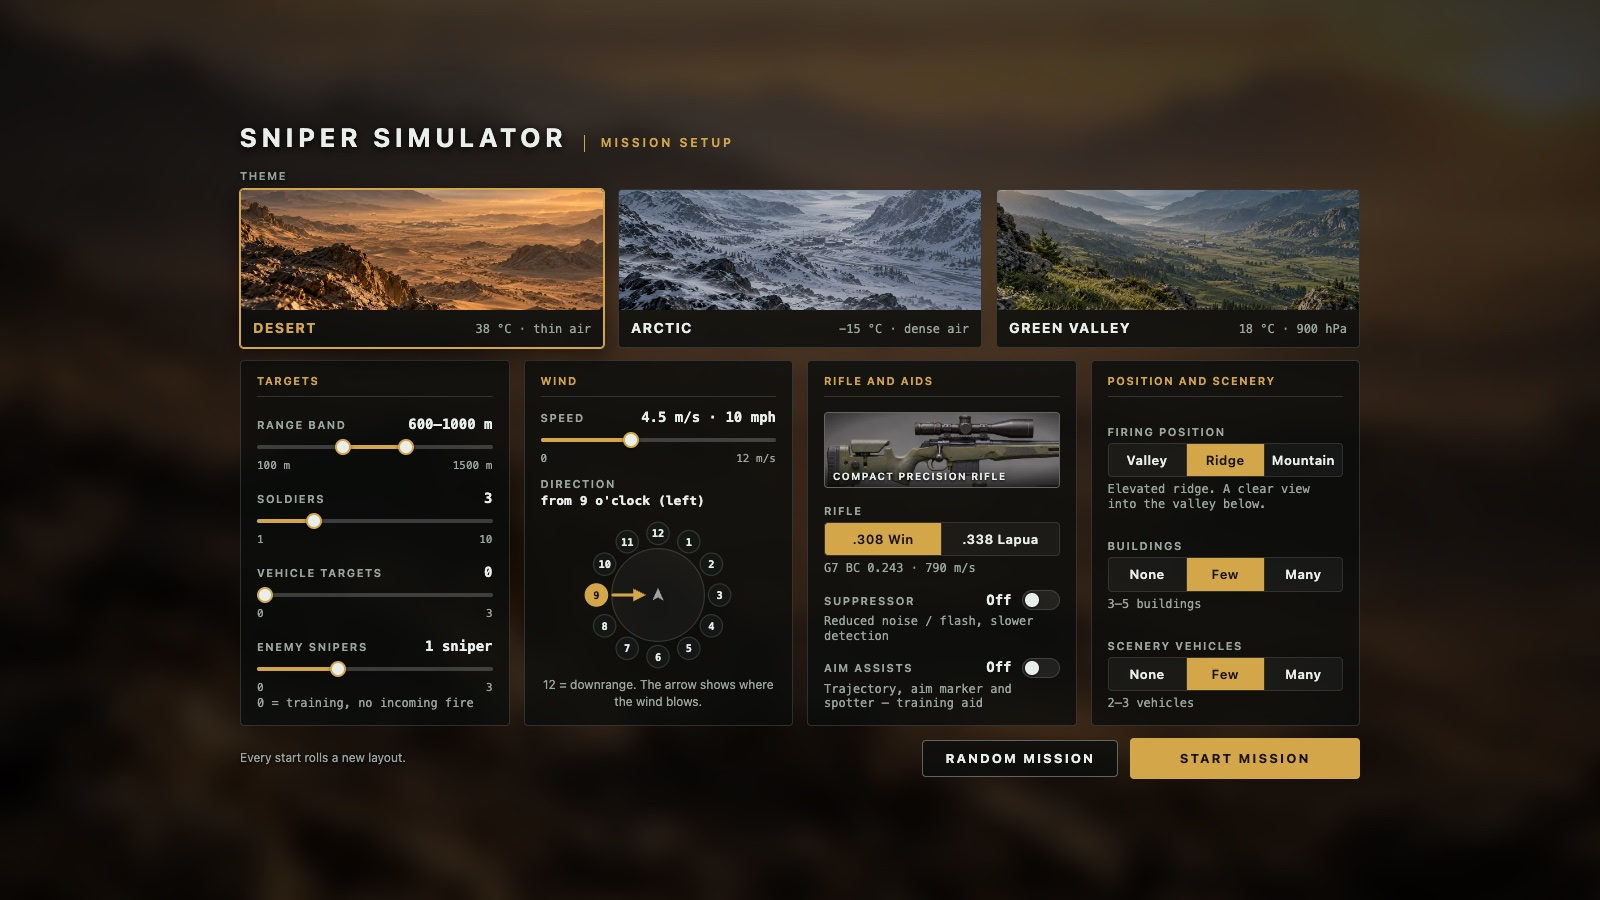
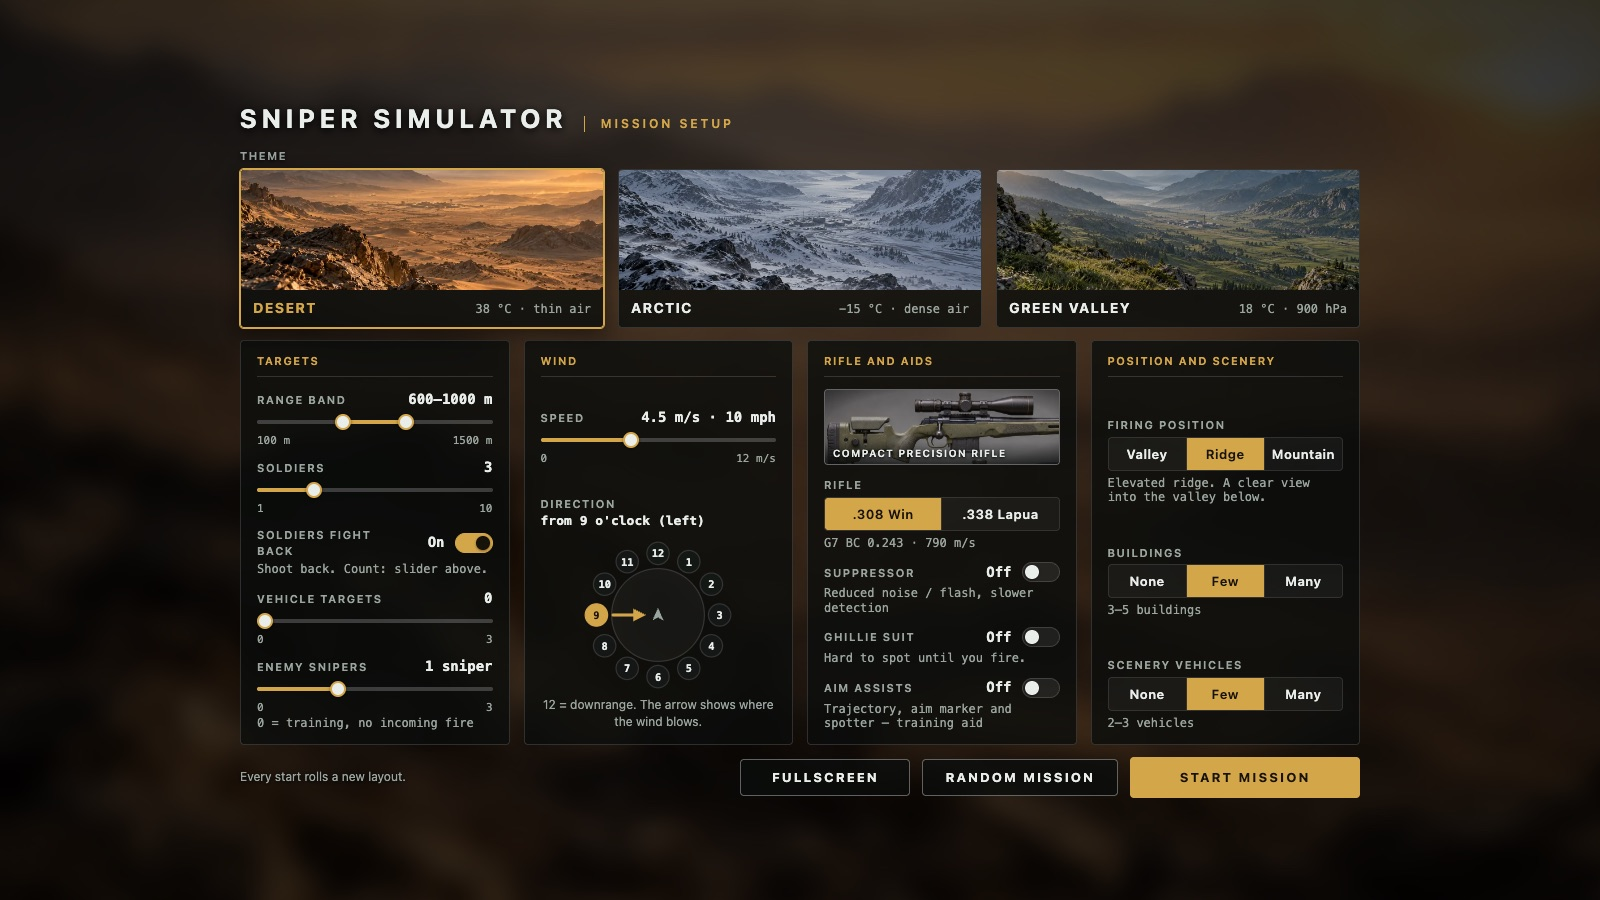
docs: README shows the squad fighting back, the hit sequence and the new enemies
New in-game screenshots: a soldier through the 25x scope, the squad sprinting
for cover and firing from it (muzzle flash through the scope), incoming fire
and a mortar warning, a chest hit from entry to the fall, and the ghillie suit.

diff --git a/README.md b/README.md
@@ -2,15 +2,43 @@
 
 **A long-range sniper simulator that runs in the browser. Every shot is a real ballistic solution.**
 
-Read the wind, hold over for drop and make the shot at 300 to 1,500 m. Every bullet is flown through a G7 drag model and the air of the map you're on. It is not a hitscan ray. Enemy snipers are hunting you too, so stay in cover and keep your shots few.
+Read the wind, hold over for drop and make the shot at 300 to 1,500 m. Every bullet is flown through a G7 drag model and the air of the map you're on. It is not a hitscan ray. And the other side shoots back: a squad that runs for cover, returns fire and calls in mortars, and enemy snipers who spot you for them.
 
 ![Desert ridge, first-person view](docs/screenshots/desert-open.jpg)
 
-| Through the scope | Training aids |
+| Through the 25x scope | Training aids |
 |---|---|
-| ![20x scope on a compound at 690 m](docs/screenshots/desert-scope.jpg) | ![Trajectory arc, aim marker and spotter call](docs/screenshots/assists-aim.jpg) |
+| ![A soldier at 140 m through the scope](docs/screenshots/soldier-scope.jpg) | ![Trajectory arc, aim marker and spotter call](docs/screenshots/assists-aim.jpg) |
 | **Green valley**, mountain position | **Arctic**, suppressed .338 |
 | ![Green valley](docs/screenshots/valley-open.jpg) | ![Arctic](docs/screenshots/arctic-open.jpg) |
+
+## Soldiers that fight back
+
+Fire your first shot and the squad comes alive. They crouch, turn toward the sound and sprint for cover:
+
+![A soldier sprinting for cover, rifle at port arms](docs/screenshots/squad-sprint.jpg)
+
+From behind walls and vehicles they rise, shoulder their rifles, fire a burst and drop back down:
+
+![Kneeling behind a wall to fire, then dropping back into cover](docs/screenshots/squad-cover.jpg)
+
+Through your scope you see the muzzle flash of the man who is shooting at you:
+
+![Return fire through the scope: rise, muzzle flash, drop](docs/screenshots/squad-return-fire.jpg)
+
+- **They have to find you first.** Each of your shots tells them a little more (less with a suppressor or a ghillie suit), and so does every bullet that cracks past one of them and every man that goes down. At first their bursts land far away; once they have you, they land close and hurt while you are exposed.
+- **An enemy sniper who has you in his scope calls your position to them.** Take him out first.
+- **They move.** After a near miss, when a friend close by goes down, or just after a while in one spot, they sprint to new cover, so you have to hunt them.
+- **Mortars.** Once they have you well enough they call them in: you get a four-second warning to get into cover (**C**).
+- Switch it off in the menu for a classic static range; the **Soldiers** slider sets how many there are (1 to 10).
+
+![The squad has found you: incoming rounds kick up dust, and a mortar is on its way](docs/screenshots/firefight.jpg)
+
+## Hits that look like hits
+
+Bodies are not planks that tip over. A hit soldier goes limp: a Verlet ragdoll on his skeleton, pushed by the bullet, folds at the knees and waist and settles on the real terrain. Where you hit him decides how he falls (a head shot drops him on the spot, a chest shot staggers him back, a leg shot drops him onto that side), and a man hit at a sprint tumbles forward. The bullet goes through: a puff at the entry, a mist out of the far side, and the round flies on, slower, to kick up dust behind him.
+
+![A chest hit at 140 m: entry and exit, the bullet passes through, the legs give way, down](docs/screenshots/hit-sequence.jpg)
 
 ## Features
 
@@ -23,23 +51,21 @@ Read the wind, hold over for drop and make the shot at 300 to 1,500 m. Every bul
   - .308 Win: G7 BC 0.243 at 790 m/s.
   - .338 Lapua: G7 BC 0.322 at 900 m/s.
   - Each has an optional suppressor: no muzzle flash, a quieter report and slower detection.
+- **5-25x scope** with a mil reticle, mouse-wheel zoom and a moving bolt. The picture is sharpened while you look through it, so a man at 600 m stays a man and not a smudge.
+  - Sound travels at the speed of sound: at long range you hear the impact well after the shot.
+- **Realistic enemies**: soldiers in camo with helmets, plate carriers, packs and rifles held in both hands; snipers prone in ghillie suits behind scoped rifles on bipods. Procedural models and textures, one draw call each.
 - **Optional ghillie suit** (a switch in the menu)
   - While you hold fire the enemy cannot pick you out: lying still in plain view never builds more than 30 % detection.
   - Your sleeves wear the map's camouflage.
   - Your shots still give you away, though the muzzle report counts for less.
-- **Variable-power scope** with a mil reticle, mouse-wheel zoom and a moving bolt.
-  - Sound travels at the speed of sound: at long range you hear the impact well after the shot.
+
+  ![Ghillie suit in the green valley: the enemy is still unaware](docs/screenshots/ghillie.jpg)
 - **Enemy counter-snipers**
   - They start out unaware of you. Without a ghillie suit, a few seconds in the open is enough to make them search.
   - A shot gives you away twice: by the muzzle report, and by the crack and dust of the bullet, which point back at you when it ends near one of them. A suppressor only quiets the first.
   - Once they are searching their scopes narrow in on you and glint more often. Keep exposed and they find you, shoot back and call in bombardments.
   - They hide with some thought: every mission each one picks, from the spots that give him a clear shot at you, one that is well concealed (a backdrop behind him, hard cover close by, away from the soldiers, on a flank, sometimes a rooftop), so the hides change with the seed.
   - Press **C** to duck into cover.
-- **Soldiers that fight back** (a switch in the menu, on by default; the **Soldiers** slider sets how many)
-  - They stand about, unaware, until you fire. Then they crouch, turn toward the shot and sprint to cover, and from cover they peek out, shoulder their rifles and fire bursts, with a muzzle flash and a report that reaches you after the sound's trip.
-  - They only know where you are a little more with each shot (a suppressor or a ghillie suit tells them less), with each bullet that passes one of them and with each soldier that goes down; an enemy sniper who has you in his scope tells them too. At first their bursts land far from you; once they have you, close, and they can hurt you while you are exposed. Ducking with **C** lets what they know fade.
-  - They change position now and then, and at once after a near miss or when a friend close by goes down, so you have to hunt them. Once they have you well enough they call mortars (the same warning and blast as a sniper's bombardment).
-  - They run, crouch, kneel and shoot with a procedural animation on the soldier's skeleton, their hit spheres follow the body, and a soldier you hit falls from the pose he was in, still carrying his run.
 - **Mission setup menu**
   - Three themes: desert, arctic and green valley.
   - A range band from 100 to 1,500 m.
@@ -54,6 +80,7 @@ Read the wind, hold over for drop and make the shot at 300 to 1,500 m. Every bul
   - Baked sun and ambient occlusion, plus instanced vegetation.
   - Bloom and colour grading.
   - Real recorded sounds.
+- **Fullscreen** with **F** or the button on the menu and in the game.
 - **Runs on modest GPUs**
   - Quality levels and dynamic resolution.
   - About 120 draw calls in the busiest mission.
@@ -118,7 +145,7 @@ npm run smoke    # build, then drive the game in headless Chrome and check it en
 | `src/player/` | First-person view, input, scope reticle and the procedural rifle model. |
 | `src/audio/` | Web Audio engine, recorded clips and sound-delay maths. |
 | `src/ui/` | Mission menu, HUD, threat bar, results screen. |
-| `src/fx/` | Dust, sparks and smoke at impacts. |
+| `src/fx/` | Dust, sparks, smoke, blood mist and the enemies' muzzle flashes. |
 | `tests/` | Vitest suites, mirroring `src/`. |
 | `scripts/` | The headless smoke test and visual-check tools. |
 
@@ -130,7 +157,7 @@ Issues and pull requests are welcome. Some ideas:
 - more scenarios (convoy ambush, high-value target, defend a position);
 - animated vehicle models;
 - spin drift and Coriolis;
-- moving targets;
+- ragdolls that collide with cover;
 - mobile and touch controls.
 
 Run `npm test` and `npm run smoke` before you open a PR.
